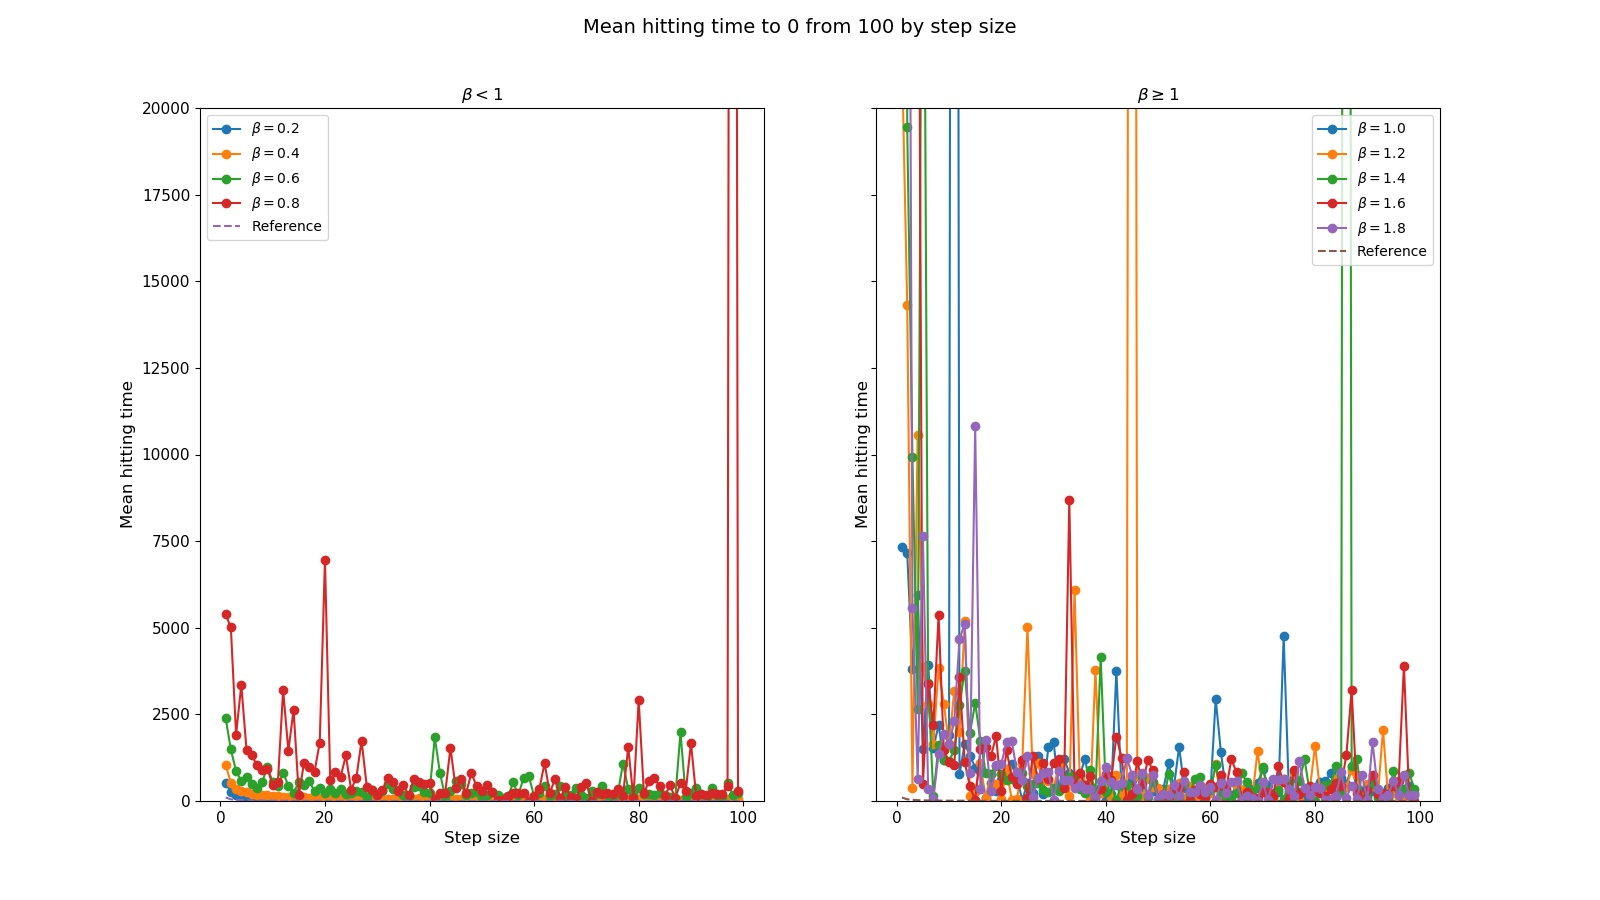
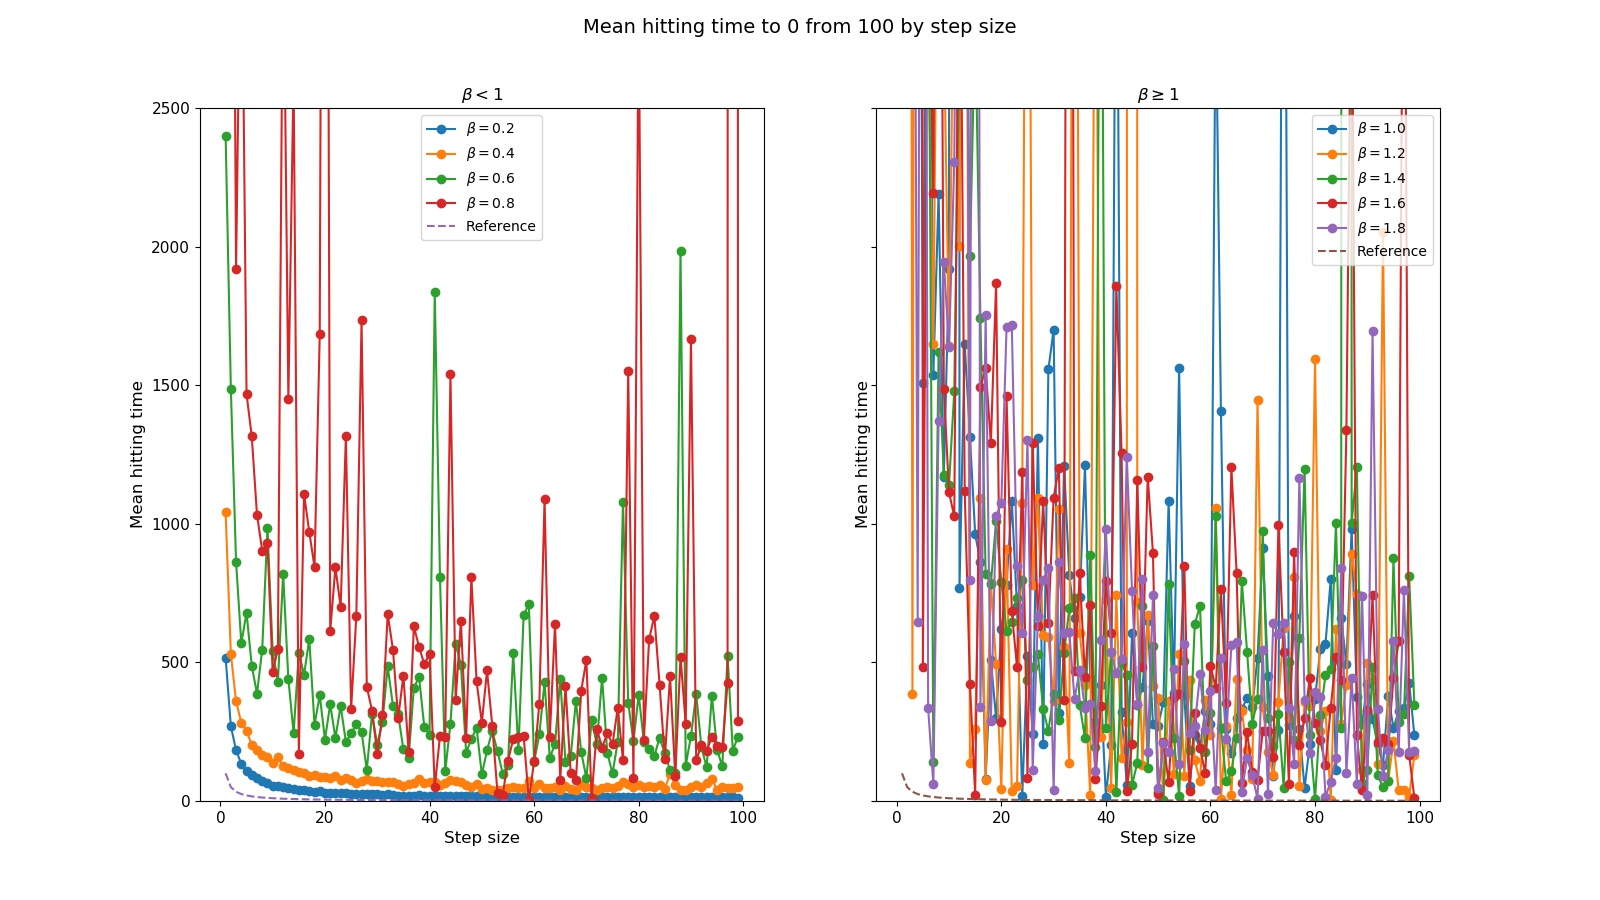
Fixed plot bounds again

diff --git a/src/varstep/plotmaker.py b/src/varstep/plotmaker.py
@@ -2,7 +2,7 @@ from numpy import arange, load
 import matplotlib.pyplot as plt
 
 # set parameters here
-init_pos = 100
+init_pos = 1000
 
 # set some indices
 means_hitting_time = load('data/means_from_{0}.npy'.format(init_pos))
@@ -34,7 +34,7 @@ for splot in m_splots:
     splot.set_xlabel('Step size', fontsize=label_fontsize)
     splot.set_ylabel('Mean hitting time', fontsize=label_fontsize)
     splot.tick_params(axis='both', labelsize=axis_fontsize)
-    splot.set_ybound(0,20000)
+    splot.set_ybound(0,25000)
 m_splots[0].set_title(r'$\beta < 1$', fontsize=label_fontsize)
 m_splots[1].set_title(r'$\beta \geq 1$', fontsize=label_fontsize)
 
@@ -57,7 +57,7 @@ for splot in s_splots:
     splot.set_xlabel('Step size', fontsize=label_fontsize)
     splot.set_ylabel('STD of hitting time', fontsize=label_fontsize)
     splot.tick_params(axis='both', labelsize=axis_fontsize)
-    splot.set_ybound(0,20000)
+    splot.set_ybound(0,25000)
 s_splots[0].set_title(r'$\beta < 1$', fontsize=label_fontsize)
 s_splots[1].set_title(r'$\beta \geq 1$', fontsize=label_fontsize)
 
